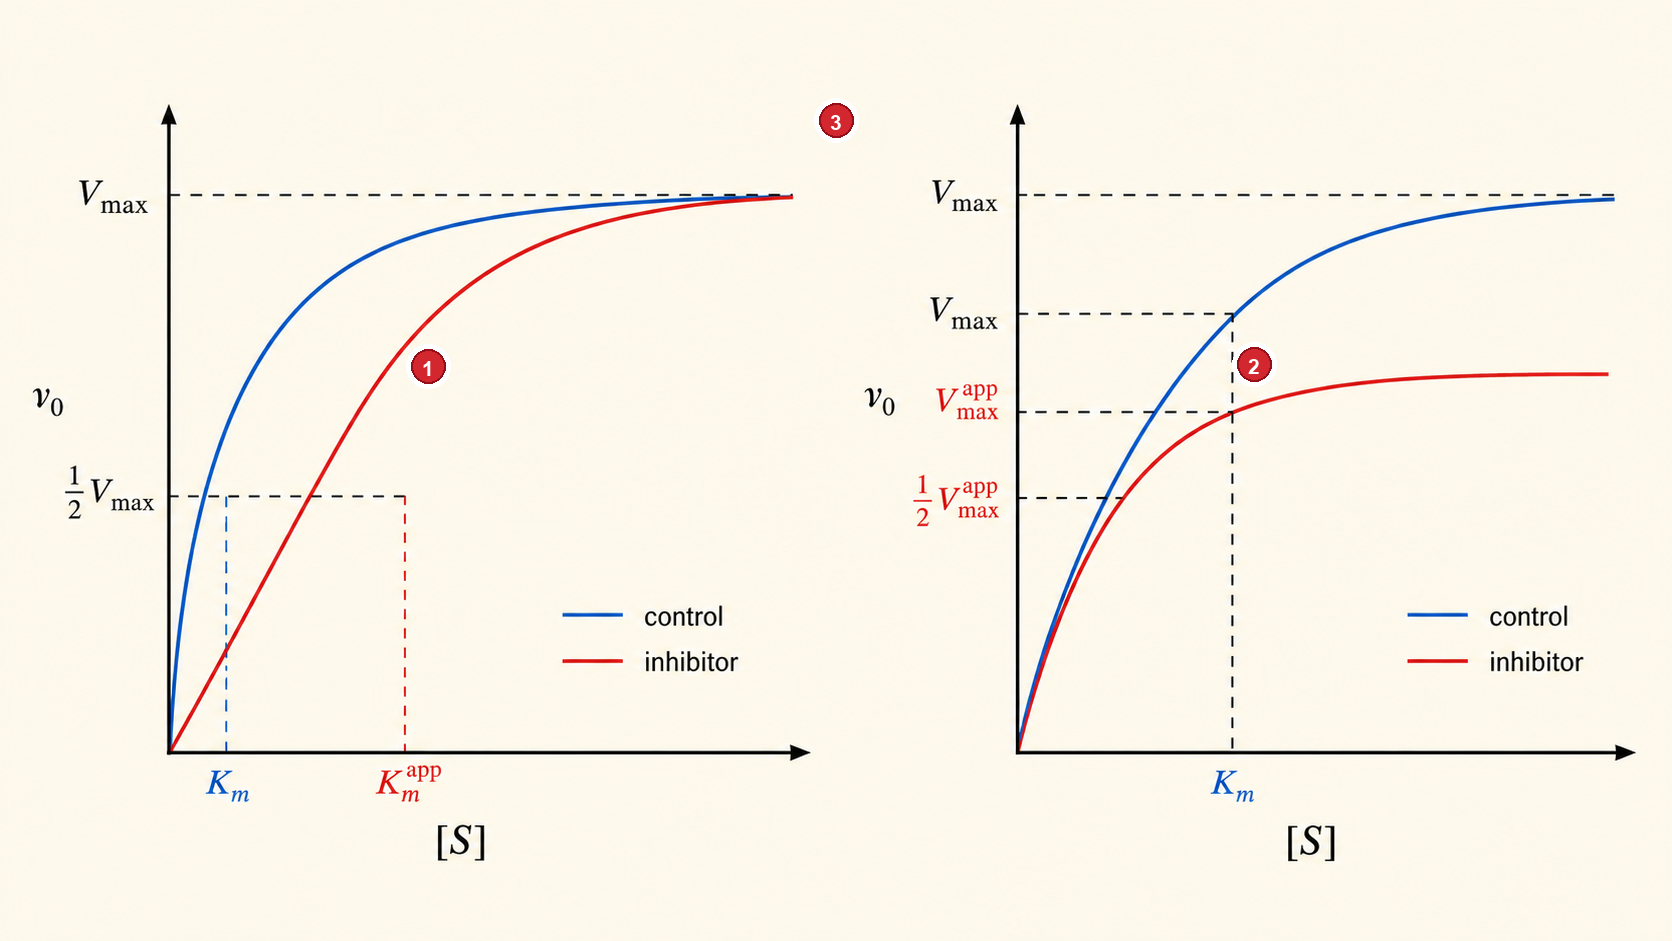
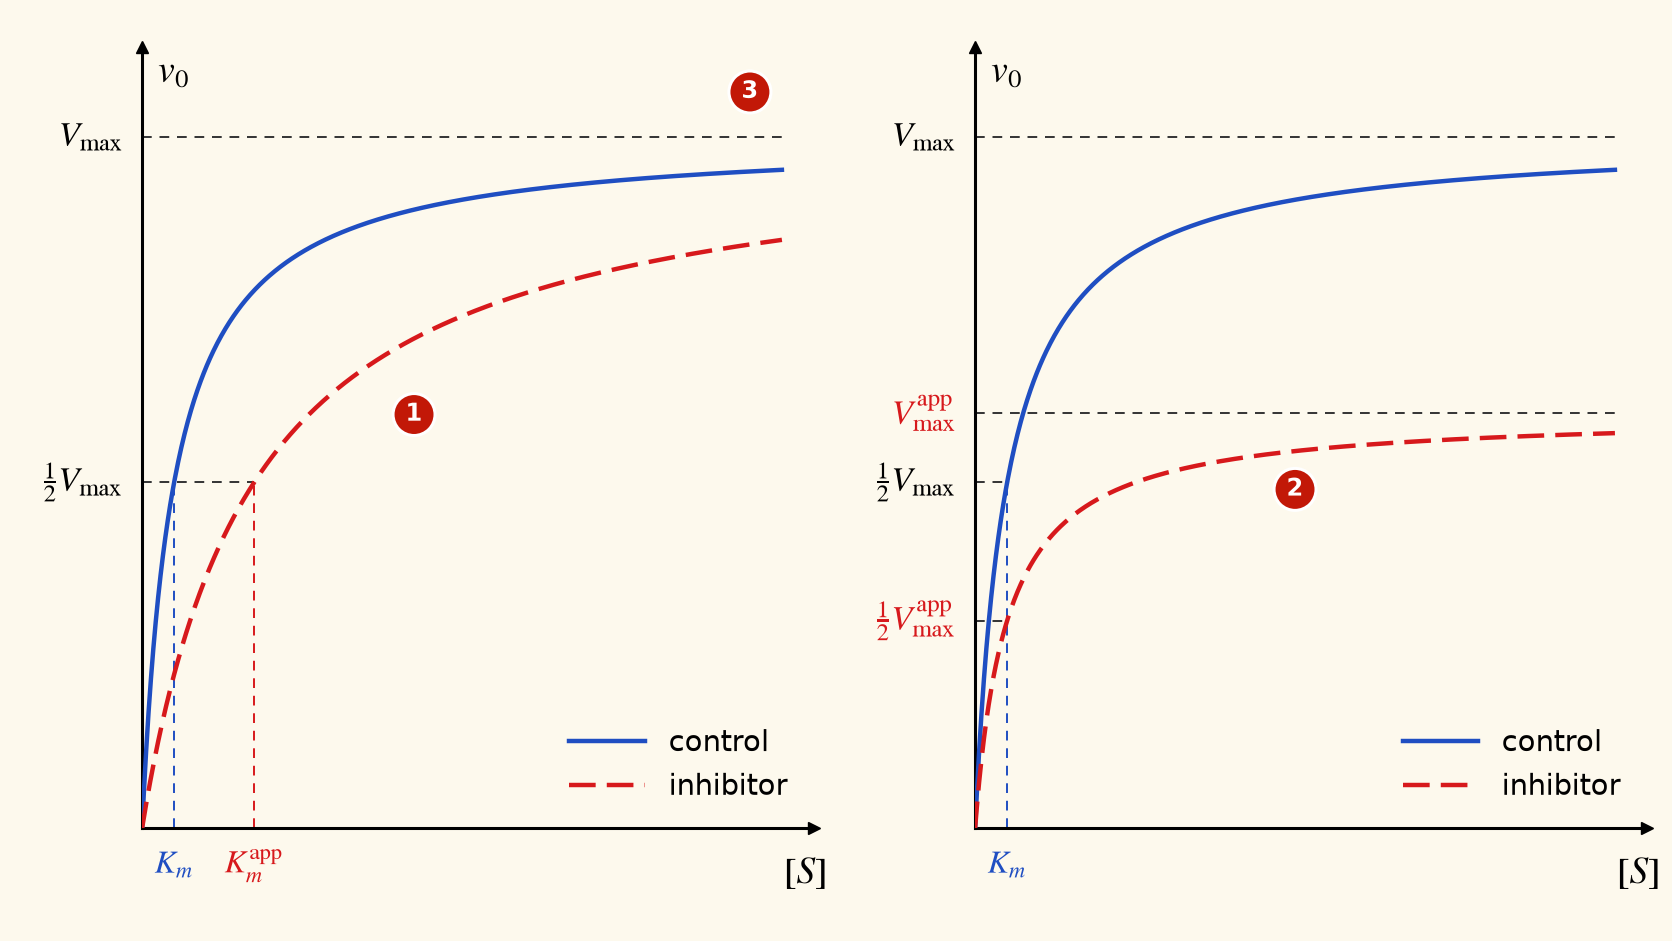
重繪 W07 抑制作用圖：修正 [S]=Km 處誤標 Vmax
原圖右圖（非競爭性）把 [S]=Km 那條水平虛線標成 Vmax，應為 ½Vmax；
曲線也不是 Michaelis–Menten（control 在 Km 時約 0.79 Vmax），
與本週「[S]=Km 時 v₀=Vmax/2」互相矛盾。

tools/draw_w07_inhibition.py 改用 v₀=Vmax[S]/(Km+[S]) 直接計算，
參考虛線由同一組參數算出並以 assert 檢查。抑制劑曲線改紅色虛線，
黑白列印也分得出來。標號 ①②③ 語意不變（W07-E01/E02、w09 標圖牆）。

diff --git a/tools/draw_w07_inhibition.py b/tools/draw_w07_inhibition.py
@@ -1,0 +1,150 @@
+#!/usr/bin/env python3
+# -*- coding: utf-8 -*-
+"""
+draw_w07_inhibition.py — 重繪 W07「競爭性 vs 非競爭性抑制」速率曲線。
+
+2026-10-29：原 AI 生成圖右圖（非競爭性）把 [S] = Km 那條水平虛線標成「Vmax」，
+應為 ½Vmax；曲線也不是 Michaelis–Menten（control 在 Km 時約 0.79 Vmax）。
+學生在同一週學「[S] = Km 時 v₀ = Vmax/2」，圖卻畫成另一個值。
+本腳本改用 v₀ = Vmax[S] / (Km + [S]) 直接計算，每條參考虛線都從同一組參數算出來，
+不會再出現標籤和曲線對不上的情況。抑制劑曲線同時用紅色與虛線，黑白也分得出來。
+
+標號語意沿用（題庫 W07-E01/E02、w09 標圖牆解答、期中複習2 Kahoot 依賴）：
+  ① 左圖：競爭性抑制曲線（Km 變大，Vmax 不變）
+  ② 右圖：非競爭性抑制曲線（Vmax 變小，Km 不變）
+  ③ 左圖右上：兩曲線終將達到同一個 Vmax
+
+輸出：
+  assets/redrawn/w07_inhibition_clean.png / _labeled.png   (1672x941)
+  site/assets/figures/w07_inhibition.jpg                    (1400x788，投影片與互動課程用)
+  site/assets/figures/labeled/w07_inhibition.jpg            (1400x788，w09 標圖牆用)
+"""
+import os
+import numpy as np
+import matplotlib
+matplotlib.use("Agg")
+import matplotlib.pyplot as plt
+from matplotlib.patches import Circle
+from PIL import Image
+
+BG = "#FDF9ED"            # 與原 site 圖底色相同 (253, 249, 237)
+BLUE, RED = "#1F4EC2", "#D7191C"
+GUIDE = "#333333"
+plt.rcParams["mathtext.fontset"] = "stix"
+plt.rcParams["font.family"] = "STIXGeneral"
+
+VMAX, KM = 1.0, 2.0
+KM_APP = 3.5 * KM          # 競爭性：Km 變大
+VMAX_APP = 0.6 * VMAX      # 非競爭性：Vmax 變小
+SMAX = 40.0
+
+
+def mm(s, vmax, km):
+    return vmax * s / (km + s)
+
+
+def badge(ax, xy, num):
+    # 半徑以資料座標表示；x、y 軸比例不同，用 transform 換算成正圓
+    x, y = ax.transData.transform(xy)
+    ax.add_patch(Circle((x, y), 21, transform=None, facecolor="#C21807",
+                        edgecolor="white", lw=2.2, zorder=9))
+    ax.text(xy[0], xy[1], str(num), ha="center", va="center", fontsize=17,
+            fontweight="bold", color="white", zorder=10, family="DejaVu Sans")
+
+
+def hline(ax, y, x1, color=GUIDE):
+    ax.plot([0, x1], [y, y], color=color, lw=1.4, ls=(0, (5, 4)), zorder=1)
+
+
+def vline(ax, x, y1, color=GUIDE):
+    ax.plot([x, x], [0, y1], color=color, lw=1.4, ls=(0, (5, 4)), zorder=1)
+
+
+def ylab(ax, y, text, color="black"):
+    ax.text(-0.9, y, text, ha="right", va="center", fontsize=25, color=color)
+
+
+def setup(ax):
+    ax.set_facecolor(BG)
+    ax.set_xlim(0, SMAX + 2)
+    ax.set_ylim(0, 1.13)
+    for side in ("top", "right"):
+        ax.spines[side].set_visible(False)
+    for side in ("left", "bottom"):
+        ax.spines[side].set_linewidth(2.2)
+    ax.set_xticks([]); ax.set_yticks([])
+    # 箭頭軸
+    ax.plot(1, 0, ">k", transform=ax.get_yaxis_transform(), clip_on=False, ms=9)
+    ax.plot(0, 1, "^k", transform=ax.get_xaxis_transform(), clip_on=False, ms=9)
+    # 軸名放在箭頭旁，不和左側的 Vmax 標籤搶位置
+    ax.text(SMAX + 1.5, -0.04, "$[S]$", ha="center", va="top", fontsize=27)
+    ax.text(1.0, 1.12, "$v_0$", ha="left", va="top", fontsize=27)
+
+
+def draw(labeled, out_png):
+    S = np.linspace(0, SMAX, 800)
+    fig, (axL, axR) = plt.subplots(1, 2, figsize=(16.72, 9.41), dpi=100)
+    fig.patch.set_facecolor(BG)
+
+    for ax in (axL, axR):
+        setup(ax)
+        ax.plot(S, mm(S, VMAX, KM), color=BLUE, lw=3.2, label="control", zorder=4)
+        hline(ax, VMAX, SMAX)
+        ylab(ax, VMAX, r"$V_{\max}$")
+
+    # ---------- 左：競爭性 ----------
+    axL.plot(S, mm(S, VMAX, KM_APP), color=RED, lw=3.2, ls=(0, (6, 2.5)),
+             label="inhibitor", zorder=4)
+    hline(axL, 0.5 * VMAX, KM_APP)
+    vline(axL, KM, 0.5 * VMAX, BLUE)
+    vline(axL, KM_APP, 0.5 * VMAX, RED)
+    ylab(axL, 0.5 * VMAX, r"$\frac{1}{2}V_{\max}$")
+    axL.text(KM, -0.03, r"$K_m$", ha="center", va="top", fontsize=23, color=BLUE)
+    axL.text(KM_APP, -0.03, r"$K_m^{\mathrm{app}}$", ha="center", va="top", fontsize=23, color=RED)
+
+    # ---------- 右：非競爭性 ----------
+    axR.plot(S, mm(S, VMAX_APP, KM), color=RED, lw=3.2, ls=(0, (6, 2.5)),
+             label="inhibitor", zorder=4)
+    hline(axR, VMAX_APP, SMAX)
+    hline(axR, 0.5 * VMAX, KM)
+    hline(axR, 0.5 * VMAX_APP, KM)
+    vline(axR, KM, 0.5 * VMAX, BLUE)
+    ylab(axR, VMAX_APP, r"$V_{\max}^{\mathrm{app}}$", RED)
+    ylab(axR, 0.5 * VMAX, r"$\frac{1}{2}V_{\max}$")
+    ylab(axR, 0.5 * VMAX_APP, r"$\frac{1}{2}V_{\max}^{\mathrm{app}}$", RED)
+    axR.text(KM, -0.03, r"$K_m$", ha="center", va="top", fontsize=23, color=BLUE)
+
+    for ax in (axL, axR):
+        ax.legend(loc="lower right", fontsize=22, frameon=False, handlelength=2.6,
+                  prop={"family": "DejaVu Sans", "size": 21})
+
+    # 結構性檢查：每條參考線都真的落在曲線上
+    assert abs(mm(KM, VMAX, KM) - 0.5 * VMAX) < 1e-12
+    assert abs(mm(KM_APP, VMAX, KM_APP) - 0.5 * VMAX) < 1e-12
+    assert abs(mm(KM, VMAX_APP, KM) - 0.5 * VMAX_APP) < 1e-12
+
+    plt.subplots_adjust(left=0.085, right=0.985, top=0.95, bottom=0.12, wspace=0.24)
+    if labeled:
+        fig.canvas.draw()   # 先定版面，badge 的像素半徑才準
+        badge(axL, (17, mm(17, VMAX, KM_APP) - 0.11), 1)
+        badge(axR, (20, VMAX_APP - 0.11), 2)
+        badge(axL, (SMAX - 2, VMAX + 0.065), 3)
+    fig.savefig(out_png, facecolor=BG)
+    plt.close(fig)
+    print("wrote", out_png)
+    return out_png
+
+
+def to_site_jpg(png, jpg):
+    Image.open(png).convert("RGB").resize((1400, 788), Image.LANCZOS).save(jpg, quality=92)
+    print("wrote", jpg)
+
+
+if __name__ == "__main__":
+    root = os.path.join(os.path.dirname(os.path.abspath(__file__)), "..")
+    red = os.path.join(root, "assets", "redrawn")
+    fig_dir = os.path.join(root, "site", "assets", "figures")
+    clean = draw(False, os.path.join(red, "w07_inhibition_clean.png"))
+    lab = draw(True, os.path.join(red, "w07_inhibition_labeled.png"))
+    to_site_jpg(clean, os.path.join(fig_dir, "w07_inhibition.jpg"))
+    to_site_jpg(lab, os.path.join(fig_dir, "labeled", "w07_inhibition.jpg"))
